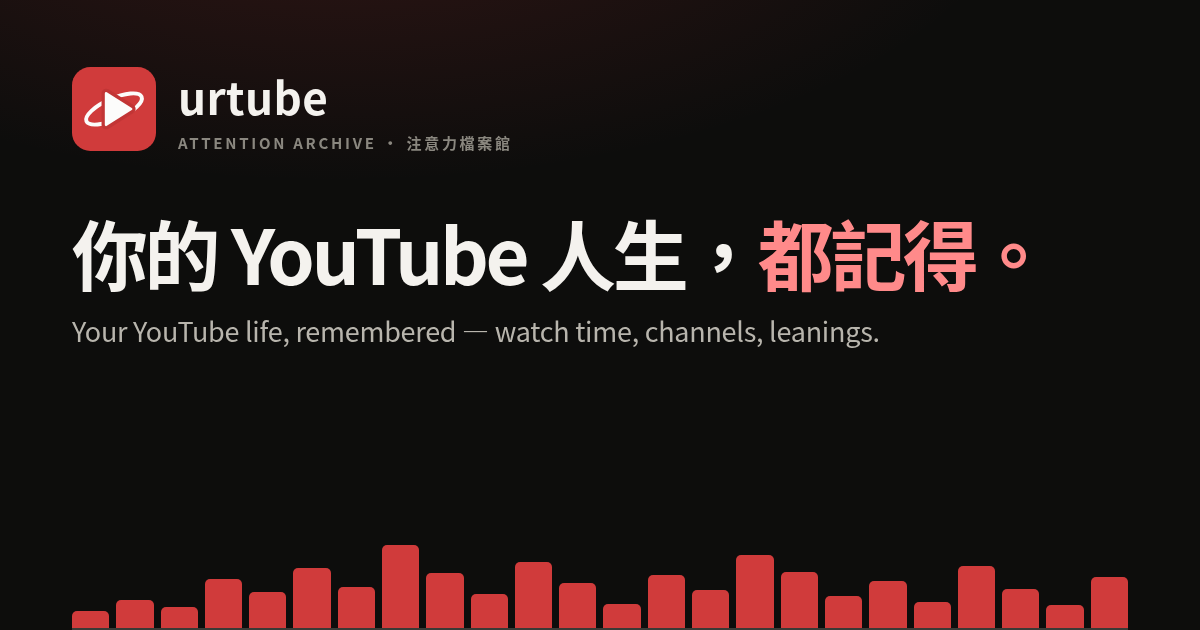
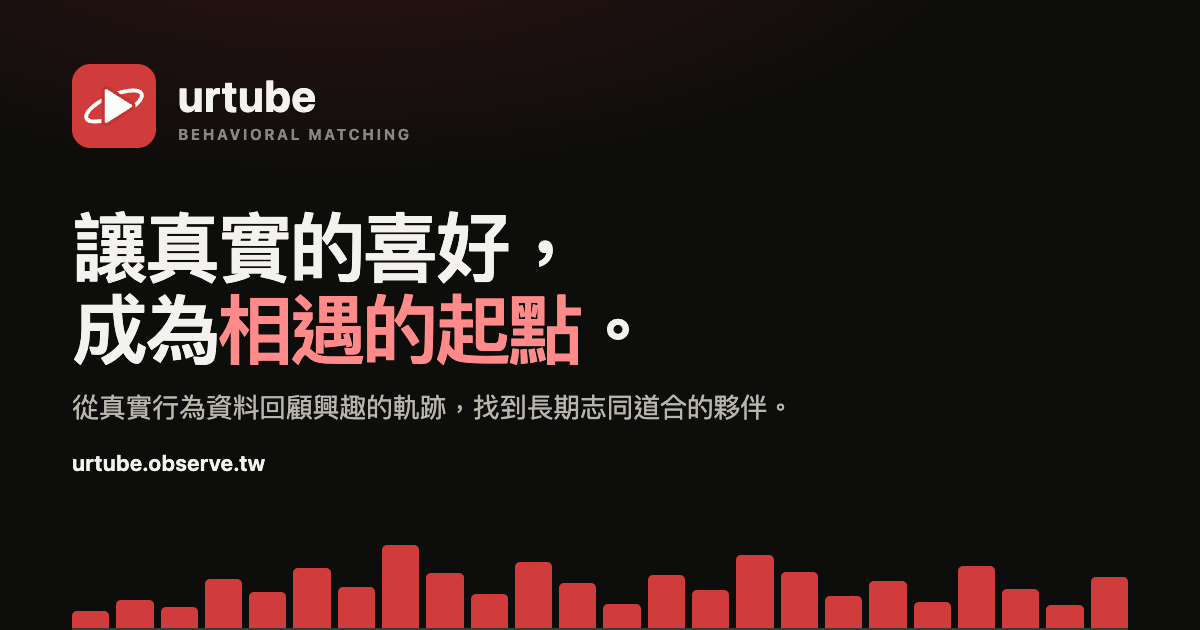
docs: refresh README card for behavioral matching

Changed region(s): [[0.0617, 0.3317, 0.8633, 0.6635], [0.0617, 0.0905, 0.4317, 0.2413], [0.0617, 0.7238, 0.2158, 0.754]]

diff --git a/scripts/og-card.html b/scripts/og-card.html
@@ -1,4 +1,4 @@
-<!doctype html><html lang="zh-Hant"><head><meta charset="utf-8"><style>
+<!doctype html><html lang="zh-Hant"><head><meta charset="utf-8"><meta name="viewport" content="width=1200"><title>urtube — 讓真實的喜好，成為相遇的起點。</title><style>
   *{box-sizing:border-box;margin:0}
   html,body{height:630px;overflow:hidden;width:1200px}
   body{
@@ -15,16 +15,18 @@
   .tagline h1{font-size:76px;font-weight:750;letter-spacing:-.045em;line-height:1.08}
   .tagline h1 em{color:#ff8a8a;font-style:normal}
   .tagline p{color:#b8b5ad;font-size:27px;letter-spacing:-.01em;margin-top:18px}
+  .site{color:#f4f2ee;font-size:22px;font-weight:650;letter-spacing:.02em;margin-top:24px}
   .rhythm{align-items:flex-end;border-bottom:2px solid #3a3a36;bottom:0;display:flex;gap:7px;height:96px;left:72px;position:absolute;right:72px}
   .rhythm i{background:#d03b3b;border-radius:5px 5px 0 0;display:block;flex:1}
 </style></head><body>
   <div class="brand">
     <svg viewBox="0 0 128 128"><rect width="128" height="128" rx="28" fill="#d03b3b"/><ellipse cx="64" cy="64" rx="46" ry="16" fill="none" stroke="#fcfcfb" stroke-width="6" transform="rotate(-24 64 64)"/><path d="M52 40 L90 64 L52 88 Z" fill="#c23535" stroke="#c23535" stroke-width="14" stroke-linejoin="round"/><path d="M52 40 L90 64 L52 88 Z" fill="#fcfcfb" stroke="#fcfcfb" stroke-width="4" stroke-linejoin="round"/></svg>
-    <div><strong>urtube</strong><small>attention archive · 注意力檔案館</small></div>
+    <div><strong>urtube</strong><small>BEHAVIORAL MATCHING</small></div>
   </div>
   <div class="tagline">
-    <h1>你的 YouTube 人生，<em>都記得。</em></h1>
-    <p>Your YouTube life, remembered — watch time, channels, leanings.</p>
+    <h1>讓真實的喜好，<br>成為<em>相遇的起點</em>。</h1>
+    <p>從真實行為資料回顧興趣的軌跡，找到長期志同道合的夥伴。</p>
+    <div class="site">urtube.observe.tw</div>
   </div>
   <div class="rhythm">
     <i style="height:18%"></i><i style="height:30%"></i><i style="height:22%"></i><i style="height:52%"></i><i style="height:38%"></i><i style="height:64%"></i><i style="height:44%"></i><i style="height:88%"></i><i style="height:58%"></i><i style="height:36%"></i><i style="height:70%"></i><i style="height:48%"></i><i style="height:26%"></i><i style="height:56%"></i><i style="height:40%"></i><i style="height:78%"></i><i style="height:60%"></i><i style="height:34%"></i><i style="height:50%"></i><i style="height:28%"></i><i style="height:66%"></i><i style="height:42%"></i><i style="height:24%"></i><i style="height:54%"></i>

diff --git a/README.md b/README.md
@@ -4,7 +4,7 @@
 
 urtube 是以 **behavioral matching** 為核心的 **data-driven 交友網站**，透過使用者授權的真實行為資料，協助人們找到長期具有共同興趣與喜好的朋友。目前從 YouTube 觀看紀錄出發，分析持續關注的主題、創作者與偏好變化，將這些線索轉化為同好探索與交流的起點。
 
-[![urtube 專案展示圖](og.png)](https://urtube.observe.tw)
+[![urtube — 讓真實的喜好，成為相遇的起點。](og.png)](https://urtube.observe.tw)
 
 ## 問題與目標
 
